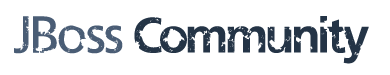
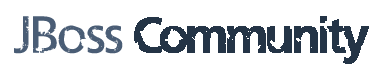
fixes #6 made jboss community home image transparent and resized. (#7)
* fixes #6 made jboss community home image transparent WIP

* fixes #6 made jboss community home image transparent and resized

diff --git a/index.html b/index.html
@@ -35,7 +35,7 @@
               <span class="icon-bar"></span>
             </button>
             <a class="navbar-brand" href="">
-              <img src="./images/jbosscommunity.png">
+              <img src="./images/jbosscommunity.png" height="45">
             </a>
           </div>
           <div class="collapse navbar-collapse" id="collapse">
